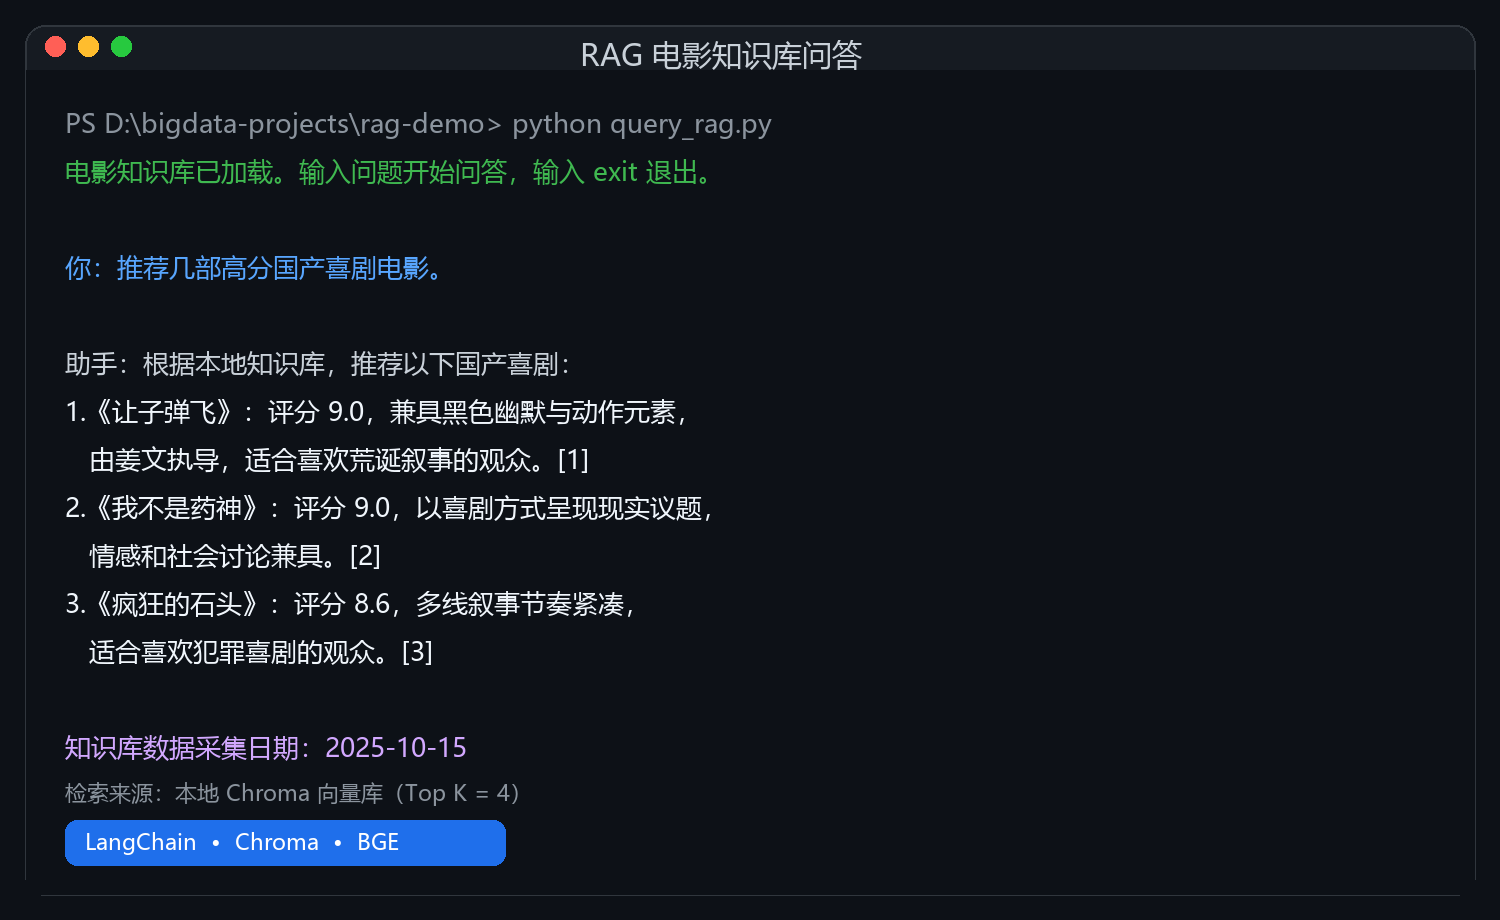
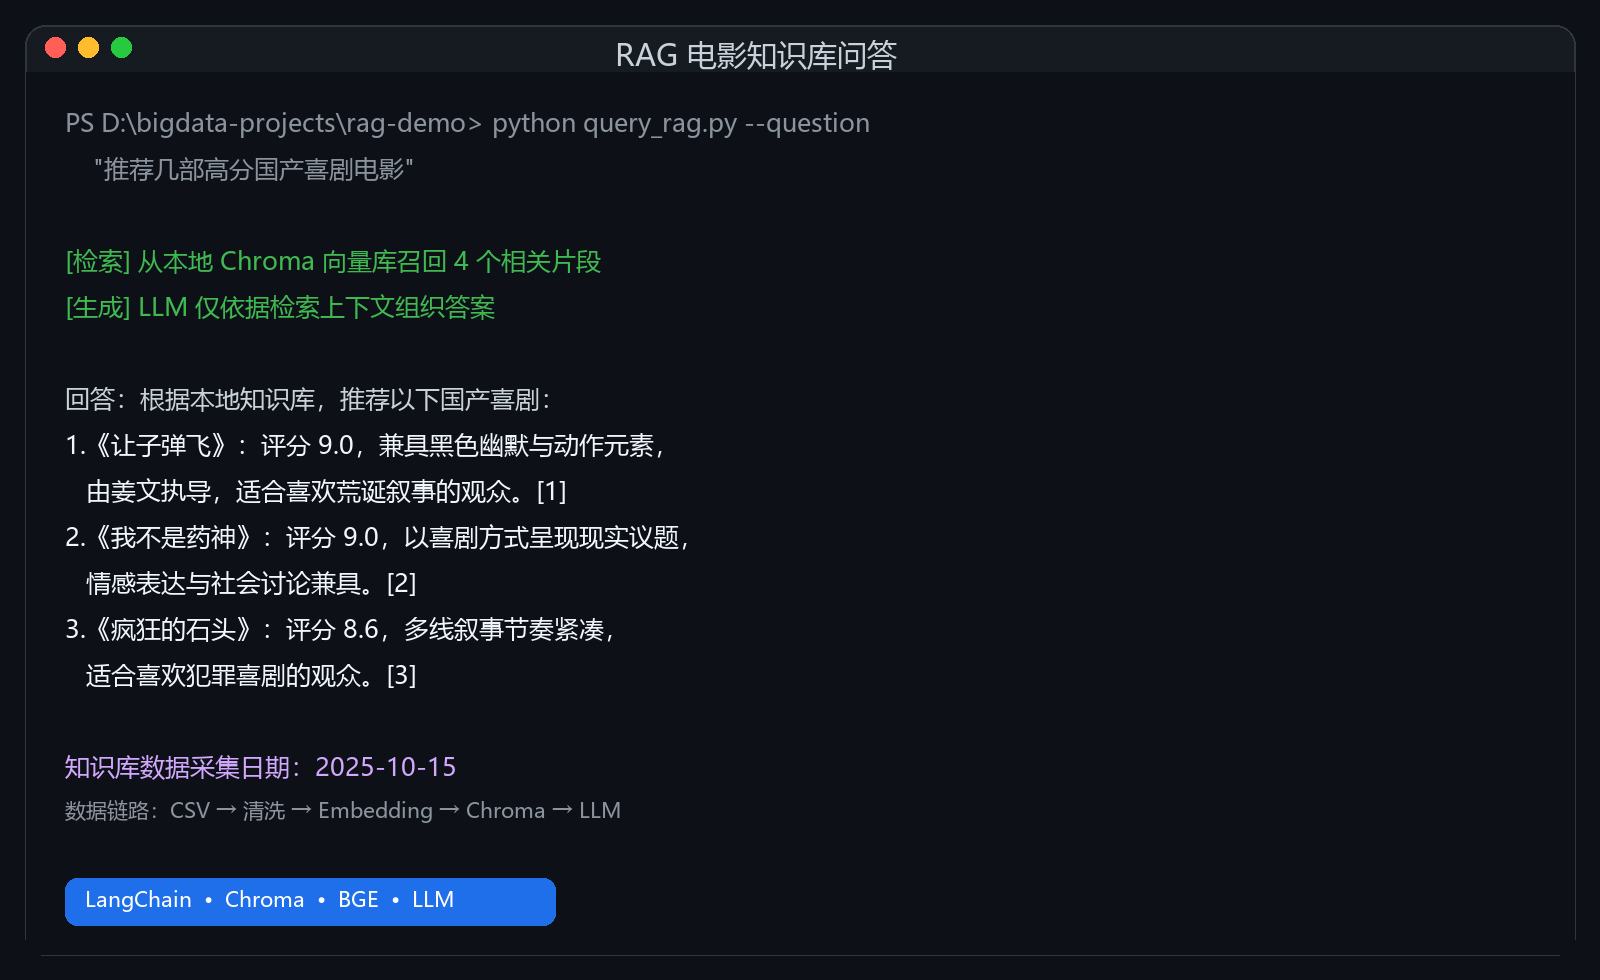
docs: strengthen AI data and RAG presentation

diff --git a/rag-demo/query_rag.py b/rag-demo/query_rag.py
@@ -56,16 +56,20 @@ def format_context(documents: list[Document]) -> str:
     )
 
 
-def extractive_fallback(documents: list[Document]) -> str:
-    """无 API Key 时输出可演示的检索式答案，而不是伪装成 LLM 生成。"""
+def format_retrieval_results(documents: list[Document], reason: str) -> str:
+    """输出纯检索结果，不调用 LLM。"""
     if not documents:
         return "知识库中没有检索到相关电影。"
-    lines = ["未配置 API Key，当前展示本地向量检索结果："]
+    lines = [f"{reason}，当前展示本地向量检索结果："]
     crawl_dates: set[str] = set()
     for index, document in enumerate(documents, start=1):
         meta = document.metadata
         box_office = meta.get("box_office_yi", -1)
-        box_text = "暂无票房数据" if box_office is None or float(box_office) < 0 else f"票房约 {float(box_office):.2f} 亿元"
+        box_text = (
+            "暂无票房数据"
+            if box_office is None or float(box_office) < 0
+            else f"票房约 {float(box_office):.2f} 亿元"
+        )
         lines.append(
             f"{index}. 《{meta.get('title', '未知')}》：评分 {float(meta.get('rating', 0)):.1f}，"
             f"导演 {meta.get('director', '未知')}，{box_text}。[{index}]"
@@ -74,16 +78,22 @@ def extractive_fallback(documents: list[Document]) -> str:
             crawl_dates.add(str(meta["crawl_date"]))
     if crawl_dates:
         lines.append(f"知识库采集日期：{', '.join(sorted(crawl_dates))}")
-    lines.append("配置 OPENAI_API_KEY 后，将由 LLM 基于以上片段组织完整回答。")
     return "\n".join(lines)
 
 
-def answer_question(vector_store: Chroma, question: str, top_k: int = TOP_K) -> str:
+def answer_question(
+    vector_store: Chroma,
+    question: str,
+    top_k: int = TOP_K,
+    use_llm: bool = True,
+) -> str:
     documents = retrieve(vector_store, question, top_k)
     if not documents:
         return "知识库中没有足够信息。"
+    if not use_llm:
+        return format_retrieval_results(documents, "已启用 --no-llm")
     if not OPENAI_API_KEY:
-        return extractive_fallback(documents)
+        return format_retrieval_results(documents, "未配置 API Key")
 
     kwargs = {
         "model": LLM_MODEL,
@@ -109,6 +119,11 @@ def parse_args() -> argparse.Namespace:
     parser.add_argument("--question", help="单次提问；不传则进入交互模式")
     parser.add_argument("--top-k", type=int, default=TOP_K, help="召回片段数量")
     parser.add_argument("--persist-dir", type=Path, default=CHROMA_DIR, help="Chroma 目录")
+    parser.add_argument(
+        "--no-llm",
+        action="store_true",
+        help="仅输出向量检索结果，不调用大模型 API",
+    )
     return parser.parse_args()
 
 
@@ -117,7 +132,14 @@ def main() -> None:
     vector_store = create_vector_store(args.persist_dir)
 
     if args.question:
-        print(answer_question(vector_store, args.question, args.top_k))
+        print(
+            answer_question(
+                vector_store,
+                args.question,
+                args.top_k,
+                use_llm=not args.no_llm,
+            )
+        )
         return
 
     print("电影知识库已加载。输入问题开始问答，输入 exit 退出。")
@@ -133,7 +155,13 @@ def main() -> None:
         if not question:
             continue
         try:
-            print(f"\n助手：{answer_question(vector_store, question, args.top_k)}")
+            answer = answer_question(
+                vector_store,
+                question,
+                args.top_k,
+                use_llm=not args.no_llm,
+            )
+            print(f"\n助手：{answer}")
         except Exception as exc:
             print(f"\n问答失败：{exc}")
 

diff --git a/docs/AI数据集加工规范.md b/docs/AI数据集加工规范.md
@@ -1,13 +1,26 @@
 # AI 数据集加工规范
 
-## 数据质量
+## 数据来源
 
-数据质量影响模型。加工时检查完整性、准确性、重复率和时效性，并为关键字段设置空值率、异常值率阈值。脏数据、错误标签和分布偏差会放大模型幻觉或预测偏差，监控应覆盖采集、清洗、产出全程。
+电商业务数据从 MySQL 经 Sqoop 全量或增量同步进入 Hive ODS 层，覆盖用户信息、订单、订单明细、商品资料和行为日志。ODS 保留原貌，DWD 完成清洗、去重与脱敏，DWS 按用户、商品和类目聚合，ADS 输出分析指标及 AI 可用数据集。
 
-## 样本过滤与脱敏
+## 清洗规则
 
-样本先去重、去空，过滤乱码、无意义短文本和异常值。手机号、身份证、地址采用掩码、哈希或泛化处理；训练集与验证集按用户或时间切分，避免数据泄漏，记录过滤规则与删除数量。
+| 规则 | 处理方式 |
+| --- | --- |
+| 空值处理 | `user_id`、`order_id` 等关键字段为空时直接过滤 |
+| 异常值 | 金额 ≤ 0、数量 ≤ 0、时间格式错误的订单标记为脏数据 |
+| 去重 | 按 `order_id + user_id` 组合键去重，保留最新记录 |
+| 脱敏 | 手机号中间 4 位替换为 `****`，地址仅保留省市 |
+| 一致性 | 统一日期、金额精度和类目编码 |
 
-## 版本管理
+## 输出标准
 
-每次产出记录数据日期、来源、Schema、脚本版本、样本量和质量指标，目录按“数据集名/版本/日期”管理。用 Git 管理代码与元数据，正在学习 DVC，计划实现大文件、流水线与实验的可追溯、可复现和可回滚。
+- 格式：Parquet + Snappy 压缩
+- 质量：关键字段空值率 < 1%，主键唯一性 100%，异常记录可追溯
+- 规模：模拟业务日增约 10 万条样本，记录处理前后行数及过滤原因
+- 切分：训练集、验证集按用户或时间分区，避免数据泄漏
+
+## 适用场景
+
+数据可用于用户画像特征、推荐系统离线样本、GMV 时序预测和知识库构建。用于大模型微调时，还需转换为指令、输入、输出等标准格式。目前使用 Git 管理加工代码与元数据，正在学习 DVC，以实现数据版本可追溯、可复现和可回滚。

diff --git a/rag-demo/README.md b/rag-demo/README.md
@@ -4,6 +4,17 @@
 
 基于 LangChain + Chroma，将清洗后的电影数据构建为本地向量知识库，实现“数据加载 → 文本切片 → 向量化 → 检索 → LLM 生成”的最小 RAG 闭环。回答被约束为仅使用本地检索结果，降低大模型脱离数据编造答案的风险。
 
+
+## 为什么做这个
+
+企业级 RAG 系统的核心瓶颈不只在模型，更在于**数据质量**。本项目使用电影数据模拟“业务数据 → 知识库 → 大模型问答”的完整链路，验证了：
+
+- 结构化数据（CSV / 数仓表）如何转换为可检索的非结构化向量知识
+- HTML 标签、重复记录和异常字段等数据问题如何影响检索召回效果
+- 知识库时效性如何由数据源和采集日期控制，而非受限于模型训练数据
+
+这个 Demo 是**大数据 ETL 能力在 AI 应用层的延伸**：上游关注数据清洗与质量，下游通过向量检索和大模型生成验证数据价值。
+
 ## 数据来源
 
 数据字段来自 Scrapy 电影采集项目的清洗结果设计，包括片名、评分、票房、题材、简介、导演和演员等。仓库附带 **16 条可直接运行的公开电影数据样例**，采集快照日期为 **2025-10-15**；评分和票房仅用于技术演示，不作为实时榜单依据。接入完整爬虫数据时，只需按相同字段替换 `data/movies.csv`。
@@ -54,10 +65,14 @@ python build_knowledge_base.py   # 首次需下载 Embedding 模型
 python query_rag.py              # 启动交互式问答
 ```
 
-单次提问：
+两种运行模式：
 
 ```bash
-python query_rag.py --question "推荐几部高分国产喜剧电影"
+# 仅检索（不调用 LLM，免费）
+python query_rag.py --question "推荐高分喜剧" --no-llm
+
+# 完整 RAG（需要在 .env 中配置 API Key）
+python query_rag.py --question "推荐高分喜剧"
 ```
 
 ### 配置大模型（可选）

diff --git a/README.md b/README.md
@@ -10,6 +10,14 @@
 | [实时采集](./实时采集-Flume-HBase-Phoenix) | Flume + HBase + Phoenix + Java | 用户行为实时入库，支撑在线特征查询 | 实时特征库 / 模型推理数据源 |
 | [RAG 知识库问答](./rag-demo) | LangChain + Chroma + OpenAI-compatible API | 将清洗后的电影数据构建为本地向量知识库 | AI 应用开发 / RAG 最小闭环 |
 
+
+## 项目亮点
+
+- **离线数仓**：四层建模 + Hive MR 参数调优，ETL 耗时从 90 分钟降至 45 分钟
+- **实时采集**：自定义 PhoenixSink，吞吐量从 500 条/秒提升至 5000 条/秒
+- **RAG Demo**：实现从 CSV 清洗、向量化、检索到 LLM 生成的完整闭环，支持本地运行
+- **踩坑记录**：沉淀数仓、调度、实时采集与 RAG 的实战问题，体现故障排查能力
+
 ---
 
 ## 项目一：电商离线数仓
@@ -167,4 +175,3 @@ bigdata-projects/
 - ✅ 离线数仓：已完成，含四层建模、ADS 数据集输出与业务分析
 - ✅ 实时采集：已完成，含自定义 Sink 与性能调优
 - ✅ RAG Demo：已完成最小闭环，支持本地向量检索与可选 LLM 生成
-- 🚧 下一步：完善数据集版本管理（DVC）与 RAG 自动化评测
